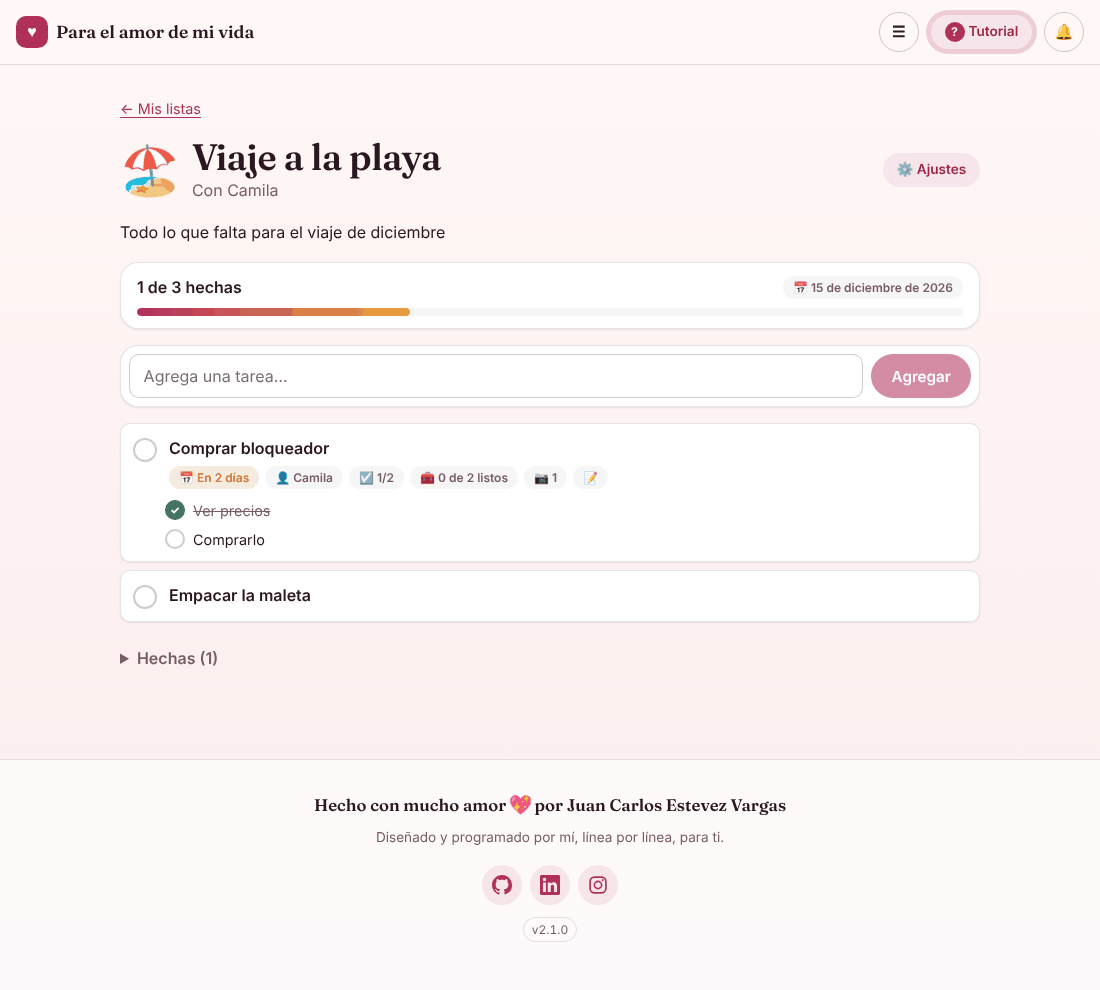
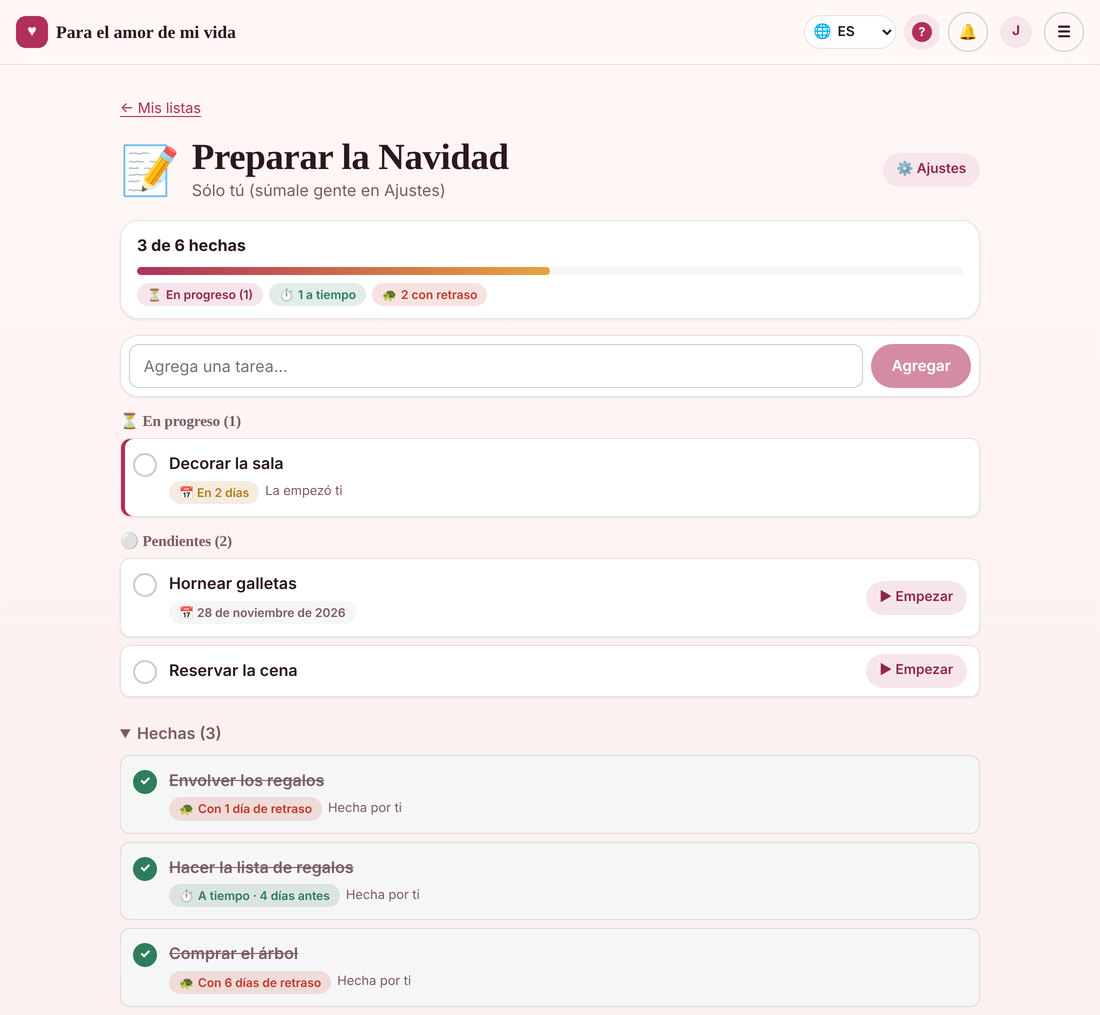
docs(listas): estados de las tareas en README, diagramas, manual y arquitectura

diff --git a/docs/DIAGRAMAS.md b/docs/DIAGRAMAS.md
@@ -1172,12 +1172,16 @@ classDiagram
   }
   class Tarea {
     título y descripción
-    fecha
+    fecha límite
     responsable: un miembro
+    estado: pendiente, en progreso o hecha
+    empezada: cuándo y quién
     hecha: cuándo y quién
+    fecha límite al terminarla
   }
   class Subtarea {
     título
+    estado
     hecha: cuándo y quién
   }
   class Material {
@@ -1203,9 +1207,10 @@ flowchart LR
   NAV["Cabecera → Listas<br/>(contador de avisos)"] --> L["/listas<br/>tarjetas con avance,<br/>fecha y caras"]
   BELL["Campana o aviso<br/>en el celular"] --> D
   L -- "+ Nueva lista" --> NL["Ventana: con quién,<br/>icono, nombre, fecha"]
-  NL -- "Crear lista" --> D["/listas/:id<br/>avance, agregar tarea,<br/>pendientes y hechas"]
+  NL -- "Crear lista" --> D["/listas/:id<br/>avance, a tiempo y con retraso,<br/>en progreso, pendientes y hechas"]
   L -- "toca una tarjeta" --> D
-  D -- "toca una tarea" --> T["Detalle de la tarea:<br/>fecha, responsable, descripción,<br/>subtareas, materiales, fotos"]
+  D -- "toca una tarea" --> T["Detalle de la tarea:<br/>estado, a tiempo o con retraso,<br/>fecha, responsable, descripción,<br/>subtareas, materiales, fotos"]
+  D -- "▶ Empezar" --> D
   D -- "⚙ Ajustes" --> S["Ajustes: datos de la lista,<br/>sumar o sacar personas,<br/>salirse o borrarla"]
   T -- "Listo" --> D
   S -- "salirse o borrar" --> L
@@ -1213,13 +1218,24 @@ flowchart LR
 
 ### Estados de una tarea
 
+Cada tarea (y subtarea) está **pendiente**, **en progreso** o **hecha**. El
+estado no es una columna: sale de dos fechas que pone la base de datos
+(`started_at` y `done_at`), así nunca queda una tarea «hecha» sin fecha de
+cuándo se hizo.
+
 ```mermaid
 stateDiagram-v2
   [*] --> Pendiente: se agrega
+  Pendiente --> EnProgreso: ▶ Empezar
   Pendiente --> Hecha: se marca ✓
-  Hecha --> Pendiente: se desmarca
+  EnProgreso --> Hecha: se marca ✓
+  EnProgreso --> Pendiente: se vuelve a «Pendiente»
+  Hecha --> EnProgreso: se desmarca (si ya se había empezado)
+  Hecha --> Pendiente: se desmarca (si nunca se empezó)
   Hecha --> [*]: se borra
   Pendiente --> [*]: se borra
+  EnProgreso --> [*]: se borra
+  state "En progreso" as EnProgreso
   state Pendiente {
     state "Sin fecha" as SinFecha
     state "Más adelante" as Mas_adelante
@@ -1231,17 +1247,44 @@ stateDiagram-v2
     Pronto --> Hoy: es el día
     Hoy --> Vencida: pasó la fecha
   }
+  state Hecha {
+    state "Sin fecha límite" as SinMedir
+    state "A tiempo" as ATiempo
+    state "Con N días de retraso" as Tarde
+    [*] --> SinMedir: no tenía fecha
+    [*] --> ATiempo: se hizo el día límite o antes
+    [*] --> Tarde: se hizo después
+  }
+  note right of EnProgreso
+    guard_todo_item pone started_at y started_by.
+    Avisa «⏳ título» a los demás.
+  end note
   note right of Hecha
-    guard_todo_item pone done_at y done_by;
-    el navegador no puede inventarlos.
+    guard_todo_item pone done_at y done_by y copia
+    due_on en done_due_on: si después se cambia la
+    fecha, el «a tiempo / con retraso» no cambia.
     Si era la última, salen 🎉 y confeti.
   end note
 ```
 
+### A tiempo o con retraso
+
+```mermaid
+flowchart TD
+  H["Tarea hecha"] --> F{"¿Tenía fecha límite<br/>al terminarla?<br/>(done_due_on)"}
+  F -- "no" --> N["No se mide"]
+  F -- "sí" --> C["Día en que se terminó<br/>(done_at en la hora local)<br/>vs. done_due_on"]
+  C -- "el mismo día" --> A["⏱ A tiempo"]
+  C -- "antes" --> E["⏱ A tiempo · N días antes"]
+  C -- "después" --> T["🐢 Con N días de retraso"]
+  A & E & T --> R["Resumen arriba de la lista:<br/>N a tiempo · N con retraso<br/>(sólo tareas, no subtareas)"]
+```
+
 La etiqueta de la fecha sale de `dueState()` y `dueLabel()` en
 `domain/lists.ts`: «En 5 días», «Mañana», «Vence hoy», «Venció hace 2 días».
-Las subtareas se tachan igual, pero no cambian el avance de la lista, que
-cuenta sólo las tareas principales.
+El estado sale de `taskStatusOf()`, y si fue a tiempo de `timelinessOf()`,
+`timelinessLabel()` y `punctualityOf()`. Las subtareas se tachan igual, pero
+no cambian el avance de la lista, que cuenta sólo las tareas principales.
 
 ### Quién recibe cada aviso
 
@@ -1250,6 +1293,7 @@ flowchart TD
   E1["Te suman a una lista"] --> N1["Aviso propio:<br/>«Juan te sumó a la lista…»<br/>enlace /listas/:id?nueva=1"]
   E2["Alguien agrega una tarea"] --> G["notify_list_members()"]
   E3["Alguien termina una tarea"] --> G
+  E5["Alguien empieza una tarea<br/>(⏳ en progreso)"] --> G
   E4["Alguien te asigna una tarea"] --> G1["notify_list_members()<br/>sólo para la persona asignada"]
   G --> R["Para cada miembro<br/>menos quien lo hizo<br/>y que tenga lists.use"]
   G1 --> R
@@ -1986,8 +2030,11 @@ erDiagram
     text description
     date due_on
     uuid assignee_id FK "miembro"
+    timestamptz started_at "en progreso (lo pone la base)"
+    uuid started_by FK
     timestamptz done_at
     uuid done_by FK
+    date done_due_on "fecha límite al terminarla"
   }
   TODO_MATERIALS {
     uuid id PK

diff --git a/README.md b/README.md
@@ -58,7 +58,7 @@ tiempo juntos, cuentas regresivas a fechas especiales, hitos, una galería de
 fotos por año y mes, una carta y sorpresas. Detrás hay un producto completo:
 cuentas con roles y permisos, una app de chat (buscar personas, solicitudes,
 chats privados con reacciones, edición y vistos), listas de tareas
-compartidas, avisos en la pantalla del celular y un panel para editar todo sin
+compartidas (pendiente, en progreso o hecha, a tiempo o con retraso), avisos en la pantalla del celular y un panel para editar todo sin
 tocar código.
 
 Funciona en dos modos:
@@ -74,7 +74,7 @@ Funciona en dos modos:
 
 | App de chat | Listas compartidas |
 | --- | --- |
-| <img src="docs/capturas/chat.png" alt="App de chat: bandeja a la izquierda y la conversación con Camila, con un mensaje editado y una reacción" width="420"> | <img src="docs/capturas/listas.png" alt="Lista «Viaje a la playa» con tareas, subtareas y barra de progreso" width="420"> |
+| <img src="docs/capturas/chat.png" alt="App de chat: bandeja a la izquierda y la conversación con Camila, con un mensaje editado y una reacción" width="420"> | <img src="docs/capturas/listas.png" alt="Lista «Preparar la Navidad» con tareas en progreso, pendientes y hechas, marcadas a tiempo o con días de retraso" width="420"> |
 | **Paletas de colores por persona** | **Roles y permisos** |
 | <img src="docs/capturas/colores.png" alt="Selector de paletas con vista previa en vivo" width="420"> | <img src="docs/capturas/permisos.png" alt="Matriz de permisos por rol en el panel de administración" width="420"> |
 | **Solicitudes de contacto** | **La bandeja en el celular** |
@@ -106,7 +106,7 @@ Funciona en dos modos:
 | Página principal: portada, tiempo juntos (quieto en el día del final si la relación terminó), cuentas regresivas, notas, hitos, galería por año/mes, carta y frases | `/` | Pública o con `site.view` |
 | Cajita de mensajes: notitas que se abren como una carta y las sorpresas recibidas, guardadas | `/mensajes` | `notes.send` |
 | App de chat a pantalla completa: buscar personas, solicitudes de contacto, chats privados, fotos, stickers, responder, reacciones (en el celular, manteniendo pulsado el mensaje), editar y borrar, «escribiendo…», en línea, vistos (✓ ✓✓), buscar mensajes, fijar, silenciar, archivar y bloquear | `/chat` | `chat.use` |
-| Listas compartidas con subtareas, materiales, fotos, fechas y responsables, en vivo | `/listas` | `lists.use` |
+| Listas compartidas como tareas: pendiente, en progreso o hecha, si se hizo a tiempo o con cuántos días de retraso, subtareas, materiales, fotos, fechas y responsables, en vivo | `/listas` | `lists.use` |
 | Dedicatorias para alguien o para todos: un mensaje, fotos y canciones. Todas las canciones forman una playlist que suena dentro de la app, se exporta (`.m3u8`, cola de YouTube, enlaces de Spotify o texto) y se le importan canciones pegando enlaces o abriendo un `.m3u` | `/dedicatorias` y `/dedicatorias/playlist` | `dedications.use` |
 | «Para ti»: carta a pantalla completa en tarjetas («No quiero perderte…») que se pasan tocando o deslizando, con «Iris» de Dean Lewis de fondo y un «Te amo» al final | `/para-ti` | Pública (fuera de buscadores) |
 | «Hasta siempre»: la carta de despedida, en nueve tarjetas con párrafos a mano, con «Lloro por ti» de Enrique Iglesias de fondo y un «Sé feliz, Cami.» al final. En el inicio sale la tarjeta «Tengo algo que decirte» hasta que se abre | `/despedida` | Pública (fuera de buscadores) |

diff --git a/docs/ARQUITECTURA.md b/docs/ARQUITECTURA.md
@@ -489,8 +489,14 @@ Las cabeceras están en `public/_headers` (Netlify) y `vercel.json`; una prueba
 - Las cinco tablas están en la publicación de Realtime: lo que hace una
   persona aparece en la pantalla de las demás sin recargar (las recargas se
   agrupan en 250 ms).
-- Las reglas puras (árbol de tareas, avance, fechas) están en
-  `src/domain/lists.ts` y tienen pruebas.
+- Las reglas puras (árbol de tareas, avance, fechas, estado y si se hizo a
+  tiempo) están en `src/domain/lists.ts` y tienen pruebas.
+- **Estado de una tarea**: no hay columna `status`; sale de `started_at` y
+  `done_at` (`taskStatusOf`). El trigger `guard_todo_item` pone esas fechas,
+  quién lo hizo y, al terminarla, copia `due_on` en `done_due_on`, que no
+  cambia después. `timelinessOf` compara el día local de `done_at` con
+  `done_due_on`. `lists.setItemStatus(id, status)` es lo único que usa la
+  interfaz para cambiar el estado (migración `20261118000100_list_task_status`).
 
 ### Dedicatorias y playlist
 
@@ -634,3 +640,4 @@ prueba comprueba que `supabase/setup.sql` esté al día).
 | `…1109000200_dedication_views` | Quién vio cada dedicatoria: tabla `dedication_views`, función `mark_dedication_seen` y lectura sólo para la autora (y cada persona su fila) |
 | `…1109000300_two_step` | Verificación en dos pasos: `mfa_ok()`, política restrictiva en cada tabla y en `storage.objects`, `check_request()` como pre-request de PostgREST y `two_step_users()` para Usuarios |
 | `…1109000400_relationship_end` | Fin de la relación: `site_settings.relationship_end` (no antes del inicio, puesta en el 31 de octubre de 2026), `important_dates.only_together` y `guard_site_settings` que también la protege con `settings.manage` |
+| `…1118000100_list_task_status` | Tareas con estado: `todo_items.started_at`, `started_by` y `done_due_on`; `guard_todo_item` pone esas fechas y congela la fecha límite al terminar, y `notify_todo_item` avisa «⏳» al empezar una tarea |

diff --git a/docs/MANUAL_DE_USUARIO.md b/docs/MANUAL_DE_USUARIO.md
@@ -230,15 +230,27 @@ la ven.
 tarea nueva le avisa a los demás. Lo que hace cada quien aparece en las otras
 pantallas al instante, sin recargar.
 
+**Estados.** Cada tarea está **⚪ Pendiente**, **⏳ En progreso** o
+**✅ Hecha**. Toca **▶ Empezar** en una tarea pendiente cuando la empiecen:
+sube al grupo **En progreso** y a los demás les llega un aviso. También puedes
+cambiar el estado desde el detalle de la tarea.
+
 **Tachar.** Toca el círculo de una tarea cuando esté hecha: baja a
-**Hechas** y dice quién la terminó. Tócalo otra vez para desmarcarla. La barra
-de arriba muestra cuántas van.
+**Hechas** y dice quién la terminó. Tócalo otra vez para desmarcarla (vuelve a
+«En progreso» si ya se había empezado). La barra de arriba muestra cuántas van.
+
+**¿A tiempo o con retraso?** Si la tarea tenía fecha límite, al terminarla
+aparece **⏱ A tiempo** (o «A tiempo · 2 días antes») o **🐢 Con 3 días de
+retraso**. Se guarda la fecha que tenía en ese momento, así que cambiarla
+después no cambia el resultado. Arriba de la lista se ve el resumen: cuántas
+van en progreso, cuántas se hicieron a tiempo y cuántas con retraso.
 
 **El detalle de una tarea.** Toca la tarea para abrirla. Todo se guarda solo:
 
 | Parte | Para qué |
 | --- | --- |
 | Título y descripción | Qué hay que hacer y los detalles (se guardan al salir del cuadro) |
+| Estado | Pendiente, En progreso o Hecha; si está hecha, si fue a tiempo o con retraso |
 | Fecha límite | Se pinta de color cuando se acerca o ya pasó |
 | ¿Quién se encarga? | Elige a alguien de la lista; le llega un aviso |
 | ☑ Subtareas | Pasos más pequeños, cada uno con su círculo |
